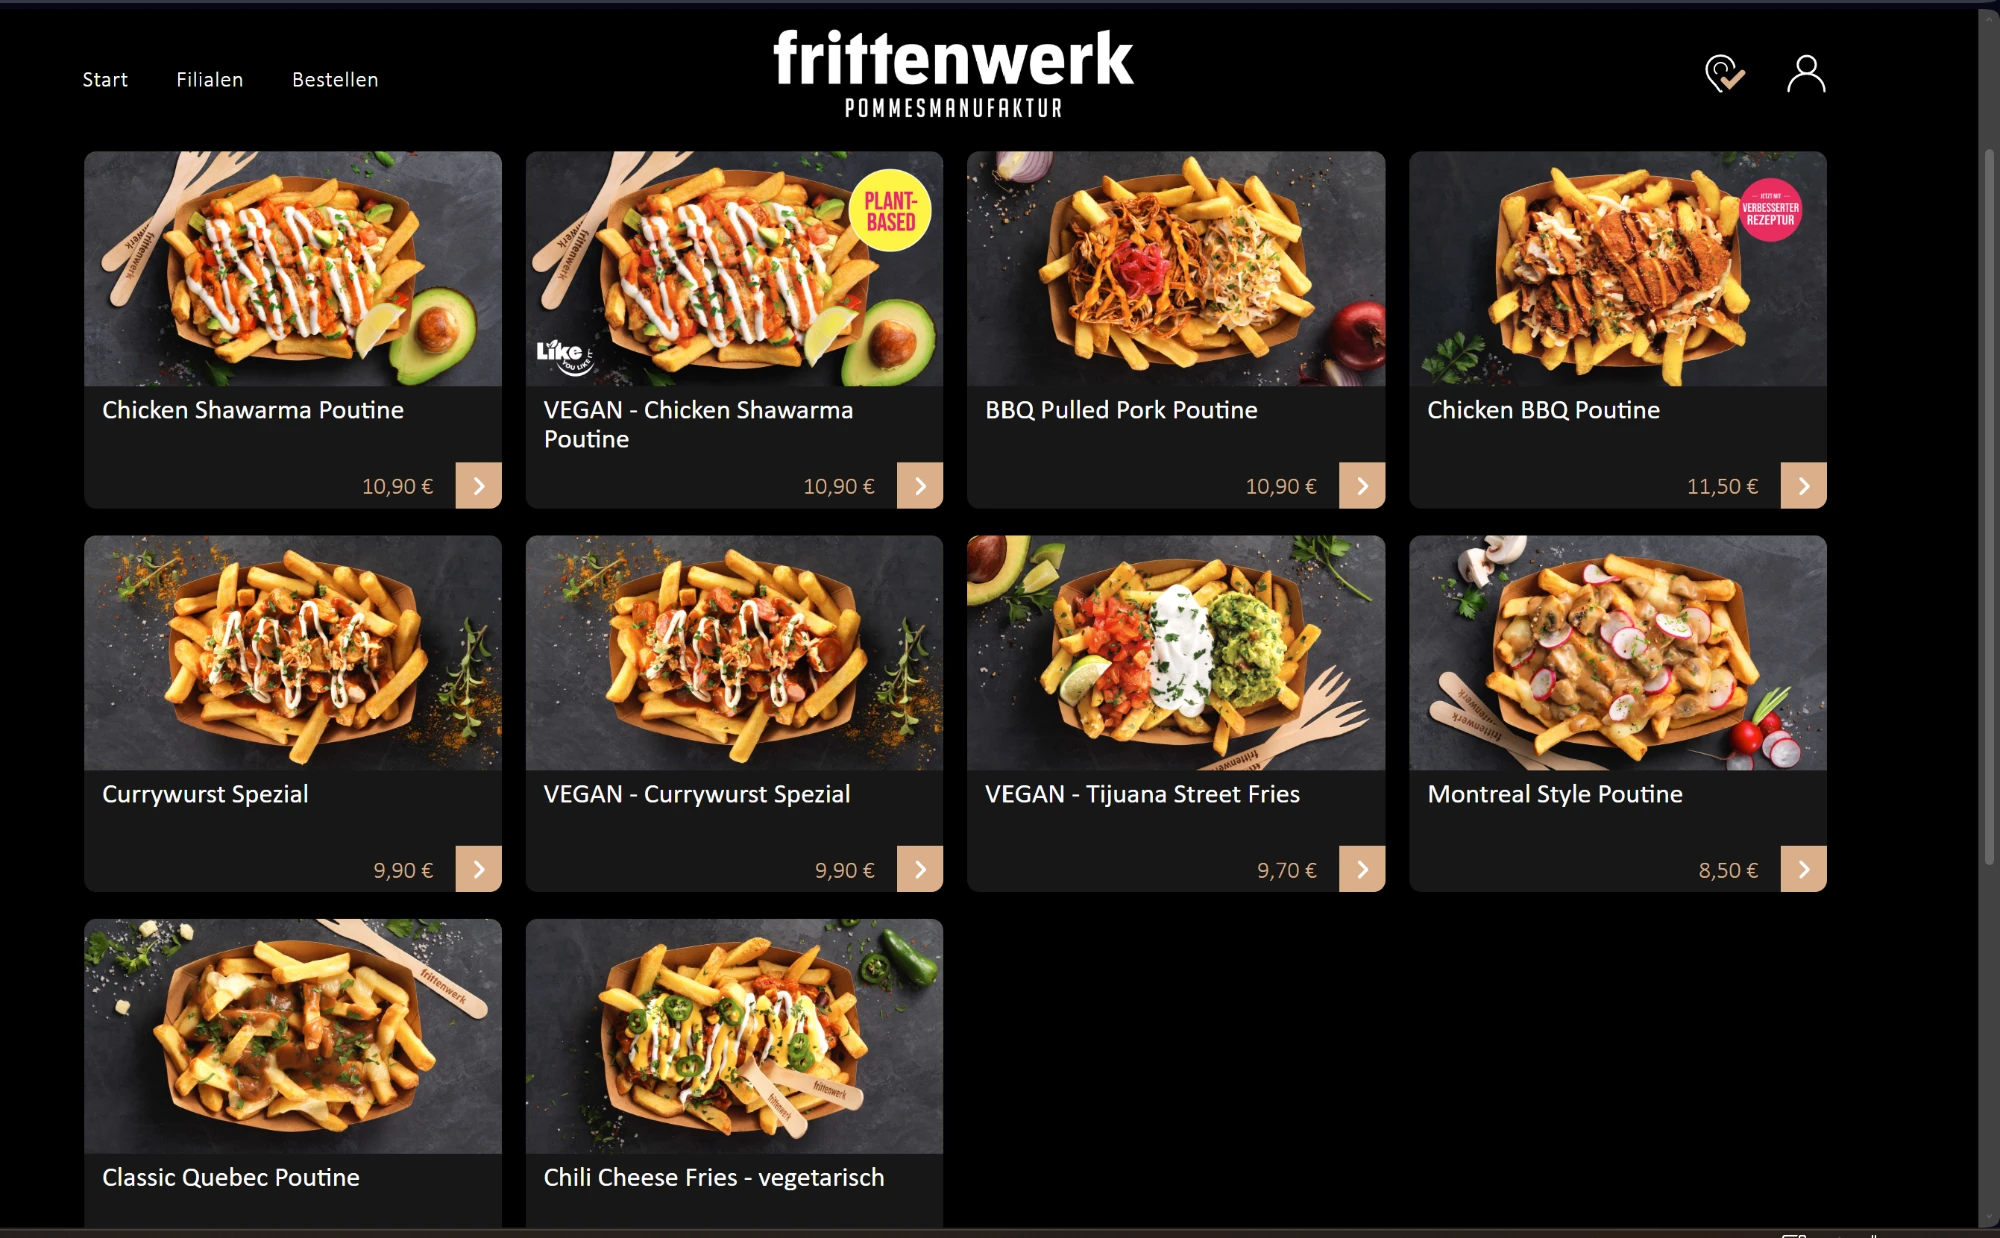
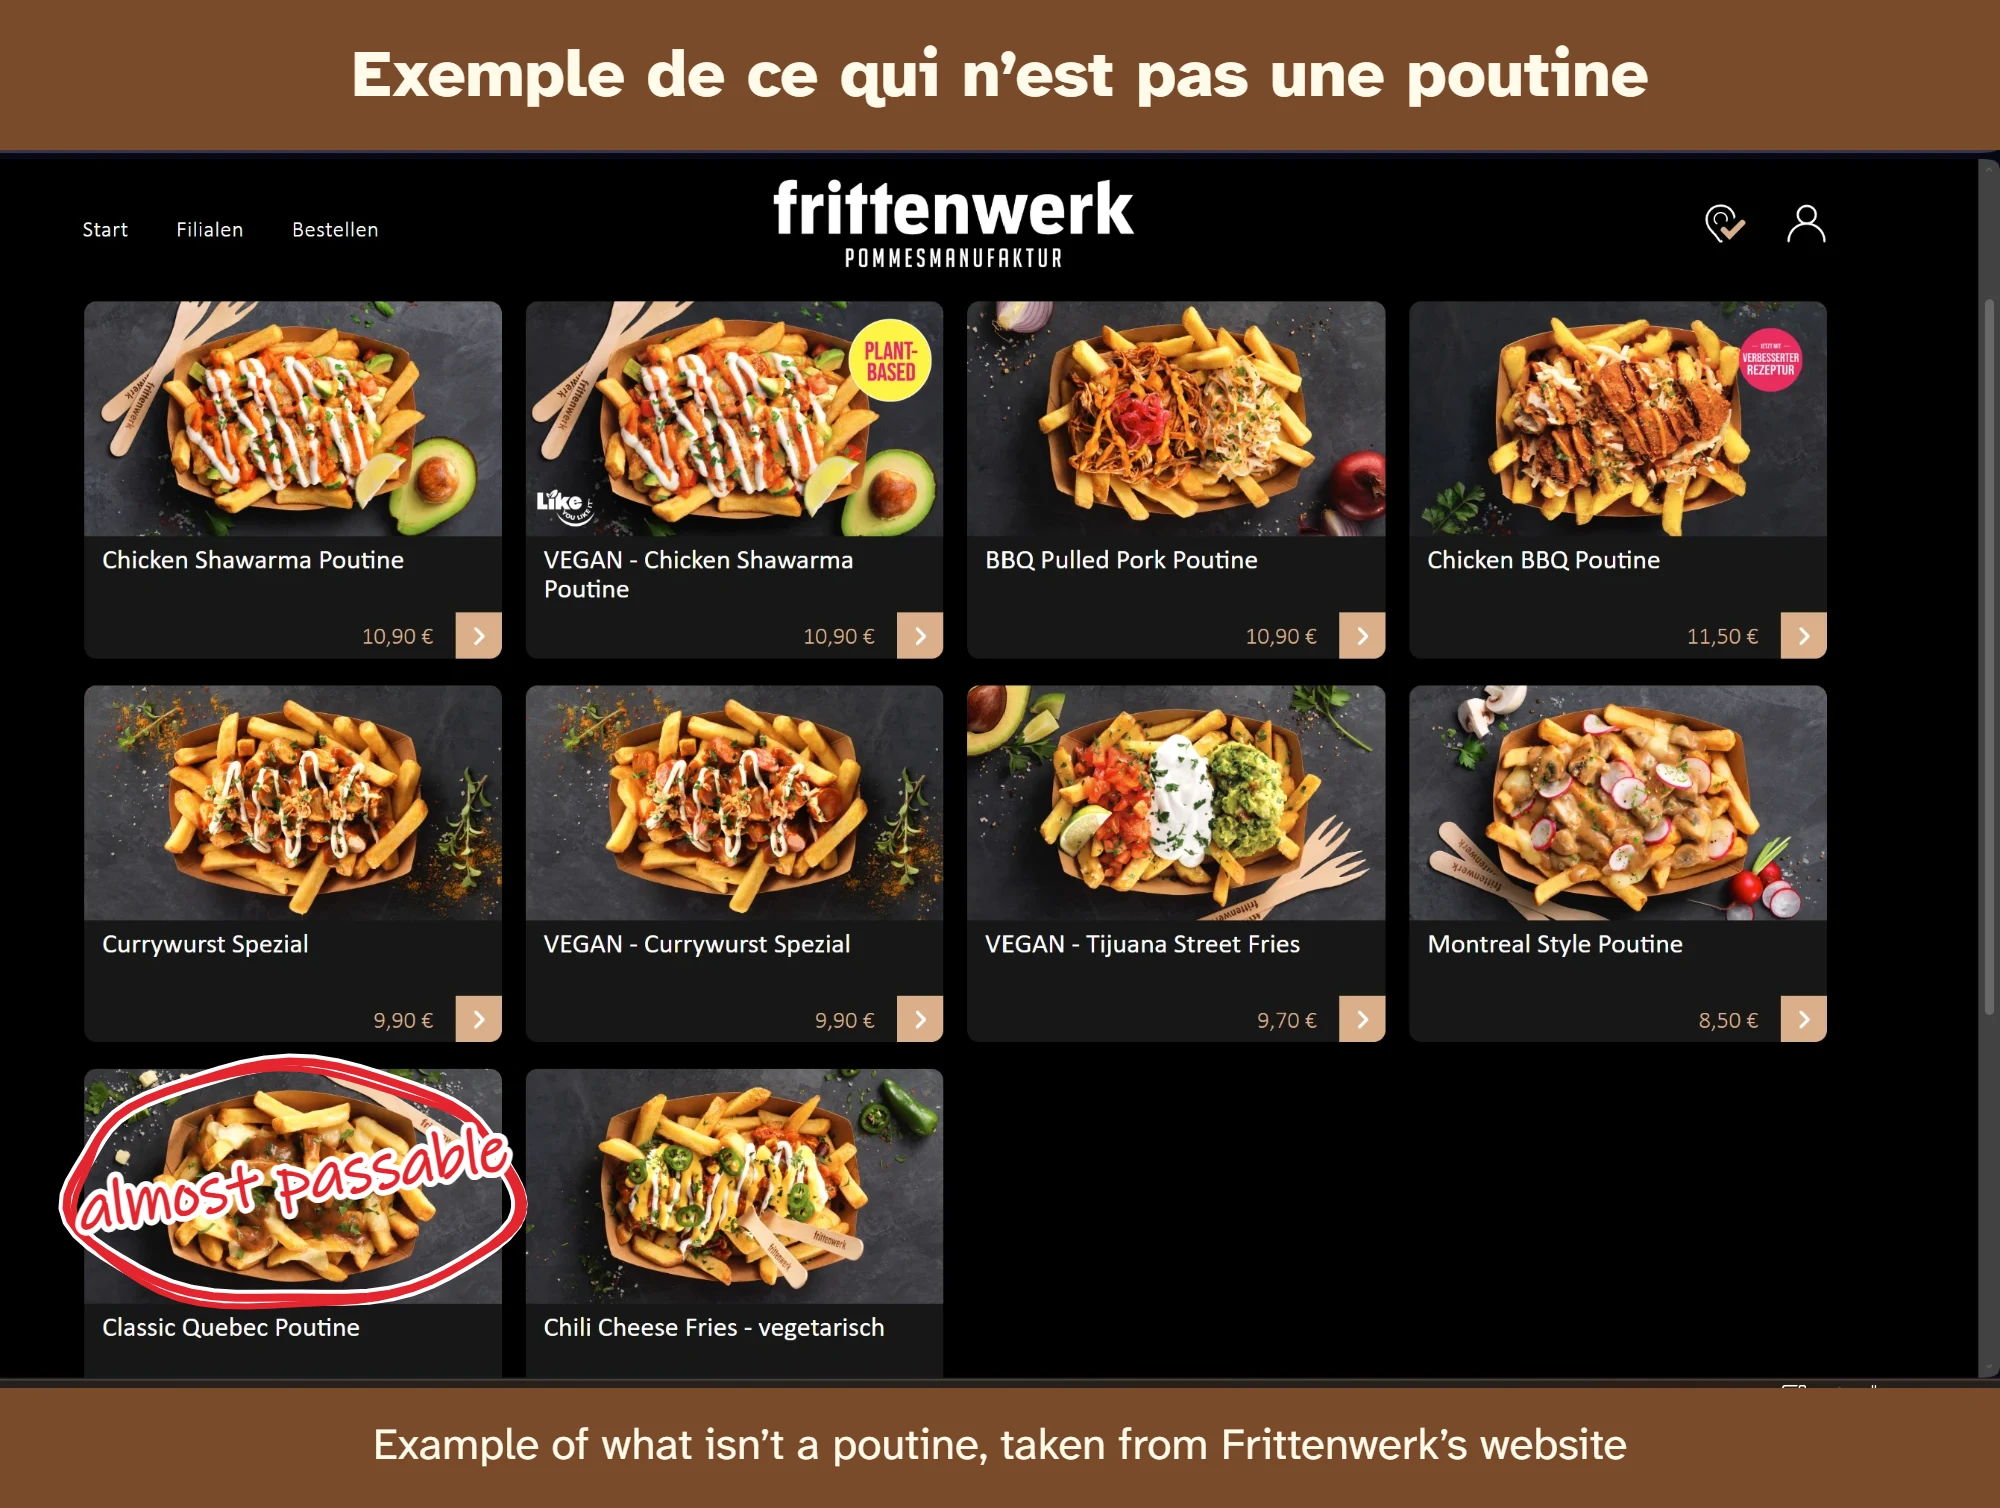
Not-poutine picture: captions and "almost passable"; the phone choice reads Automatic
The picture gets "Exemple de ce qui n'est pas une poutine" over it, "Example
of what isn't a poutine, taken from Frittenwerk's website" under it, and
"almost passable" scrawled in a red ring on its Classic Quebec Poutine. The
language choice "Same as my phone" / "Comme mon téléphone" becomes
"Automatic" / "Automatique".

diff --git a/src/ui/strings.ts b/src/ui/strings.ts
@@ -93,7 +93,7 @@ export interface Strings {
     title: string;
     found: string;
     language: string;
-    /** Follow the phone's language. */
+    /** Follow the phone's language (Alex, 2026-10-20: "automatic (automatique in french)"). */
     phone: string;
     /** Each language, named in the menu's own language. */
     names: Readonly<Record<Language, string>>;
@@ -380,7 +380,7 @@ const english: Strings = {
     title: 'Secret menu',
     found: 'You found it. Tap the name again any time.',
     language: 'Language',
-    phone: 'Same as my phone',
+    phone: 'Automatic',
     names: { fr: 'French', en: 'English' },
     history: 'Poutine’s history',
     articles: [
@@ -648,7 +648,7 @@ const french: Strings = {
     title: 'Menu secret',
     found: 'Vous l’avez trouvé. Touchez le nom quand vous voulez.',
     language: 'Langue',
-    phone: 'Comme mon téléphone',
+    phone: 'Automatique',
     names: { fr: 'Français', en: 'Anglais' },
     history: 'L’histoire de la poutine',
     articles: [
